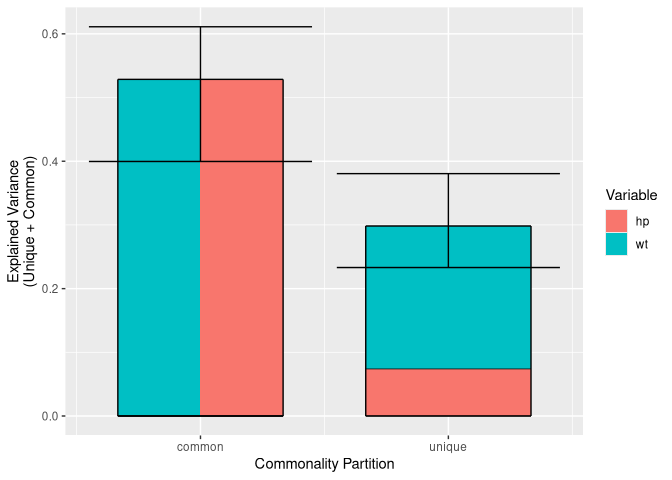
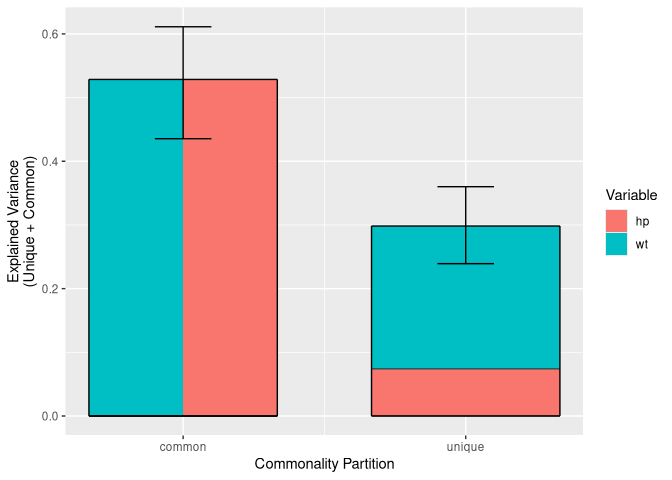
fix(ggcom_ci): set default width for CIs

diff --git a/README.md b/README.md
@@ -75,9 +75,9 @@ plot(p) +
 #> # Groups:   com [3]
 #>   com      lci   uci
 #>   <fct>  <dbl> <dbl>
-#> 1 hp    0.0190 0.181
-#> 2 wt    0.107  0.351
-#> 3 wt,hp 0.400  0.611
+#> 1 hp    0.0282 0.135
+#> 2 wt    0.138  0.326
+#> 3 wt,hp 0.435  0.611
 ```
 
 <img src="man/figures/README-unnamed-chunk-2-1.png" width="100%" />
@@ -147,11 +147,11 @@ ggcom_yhat(p)
 #> 
 #> $ci
 #>       Unique to wt         Unique to hp         Common to wt, and hp
-#> 2.5%             0.1067050            0.0189500              0.39964
-#> 97.5%            0.3510375            0.1808275              0.61110
+#> 2.5%             0.1381700             0.028245            0.4353950
+#> 97.5%            0.3255175             0.135125            0.6111725
 #>       Total               
-#> 2.5%             0.6659825
-#> 97.5%            0.9479450
+#> 2.5%               0.67290
+#> 97.5%              0.94381
 ```
 
 Commonality effects can be stacked in multiple ways:
@@ -165,9 +165,9 @@ slot(p, 'stack') <- "common"
 plot(p) +
   ggcom_ci(p)
 #> Bootstrapped confidence intervals:
-#>         type     lower   upper
-#> 2.5%  unique 0.2331025 0.38051
-#> 2.5%1 common 0.3996400 0.61110
+#>         type     lower     upper
+#> 2.5%  unique 0.2392025 0.3600525
+#> 2.5%1 common 0.4353950 0.6111725
 ```
 
 <img src="man/figures/README-unnamed-chunk-3-1.png" width="100%" />
@@ -180,9 +180,9 @@ slot(p, 'stack') <- "partition"
 plot(p) +
   ggcom_ci(p)
 #> Bootstrapped confidence intervals:
-#>       category     lower     upper
-#> 2.5%        wt 0.5594425 0.8718750
-#> 2.5%1       hp 0.4301350 0.7437325
+#>       category     lower    upper
+#> 2.5%        wt 0.6048425 0.863605
+#> 2.5%1       hp 0.4873300 0.733065
 ```
 
 <img src="man/figures/README-unnamed-chunk-4-1.png" width="100%" />
@@ -193,11 +193,11 @@ stacked effects.
 ``` r
 ggcom_ci(p)
 #> Bootstrapped confidence intervals:
-#>       category     lower     upper
-#> 2.5%        wt 0.5594425 0.8718750
-#> 2.5%1       hp 0.4301350 0.7437325
+#>       category     lower    upper
+#> 2.5%        wt 0.6048425 0.863605
+#> 2.5%1       hp 0.4873300 0.733065
 #> mapping: x = ~x_mid, ymin = ~lower, ymax = ~upper 
-#> geom_errorbar: na.rm = FALSE, orientation = NA
+#> geom_errorbar: na.rm = FALSE, orientation = NA, width = 0.3
 #> stat_identity: na.rm = FALSE
 #> position_identity
 ```
@@ -249,16 +249,16 @@ plot(p1) +
 #> # Groups:   com [3]
 #>   com      lci   uci
 #>   <fct>  <dbl> <dbl>
-#> 1 hp    0.0144 0.162
-#> 2 wt    0.123  0.362
-#> 3 wt,hp 0.456  0.590
+#> 1 hp    0.0215 0.137
+#> 2 wt    0.142  0.354
+#> 3 wt,hp 0.461  0.593
 #> # A tibble: 3 × 3
 #> # Groups:   com [3]
 #>   com      lci   uci
 #>   <fct>  <dbl> <dbl>
-#> 1 hp    0.0239 0.186
-#> 2 wt    0.0923 0.343
-#> 3 wt,hp 0.395  0.597
+#> 1 hp    0.0191 0.172
+#> 2 wt    0.111  0.357
+#> 3 wt,hp 0.442  0.613
 ```
 
 <img src="man/figures/README-unnamed-chunk-6-1.png" width="100%" />
